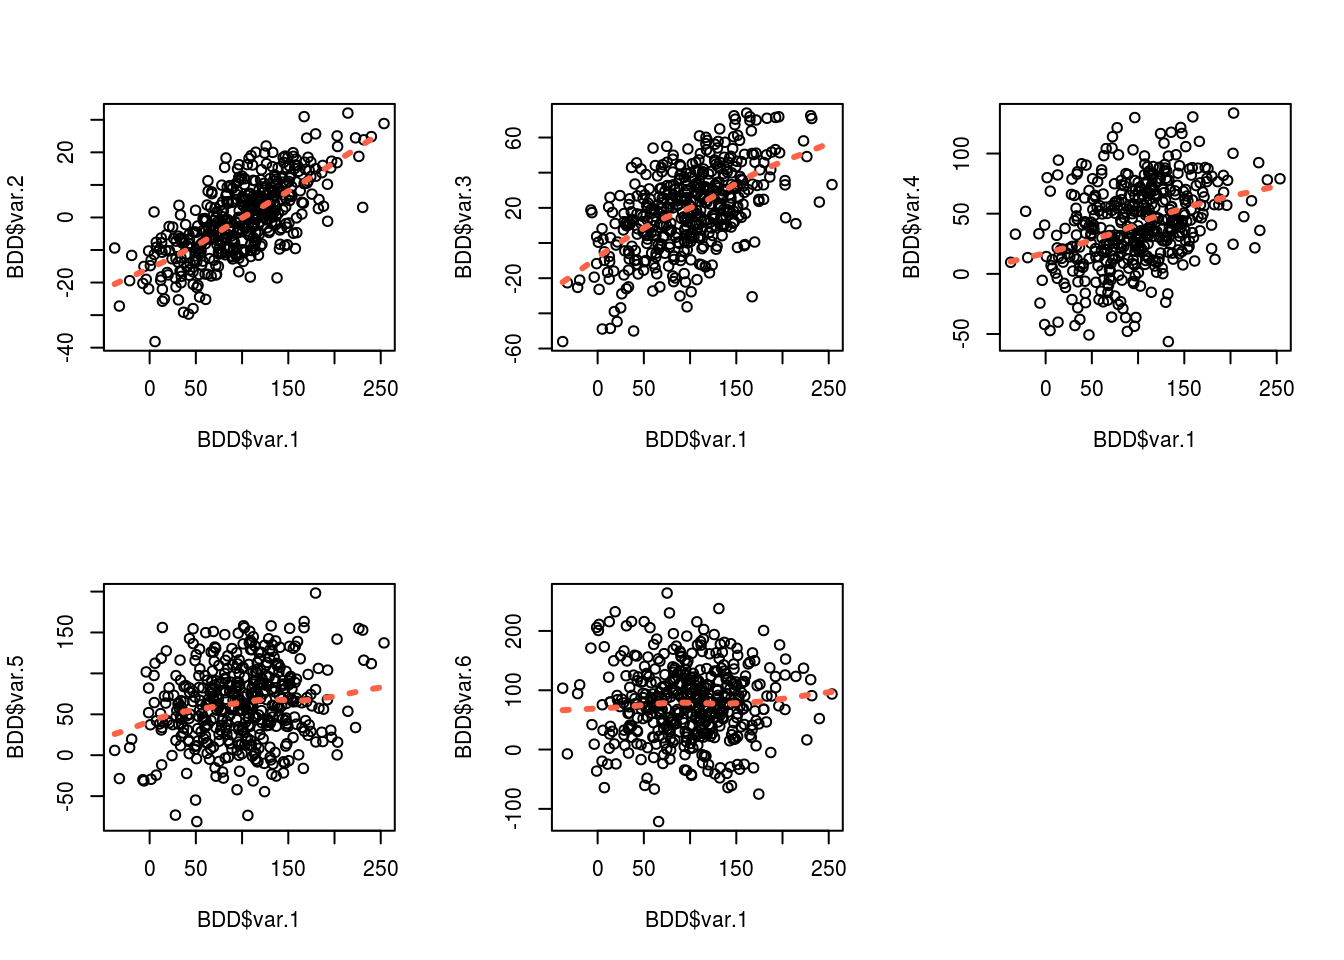
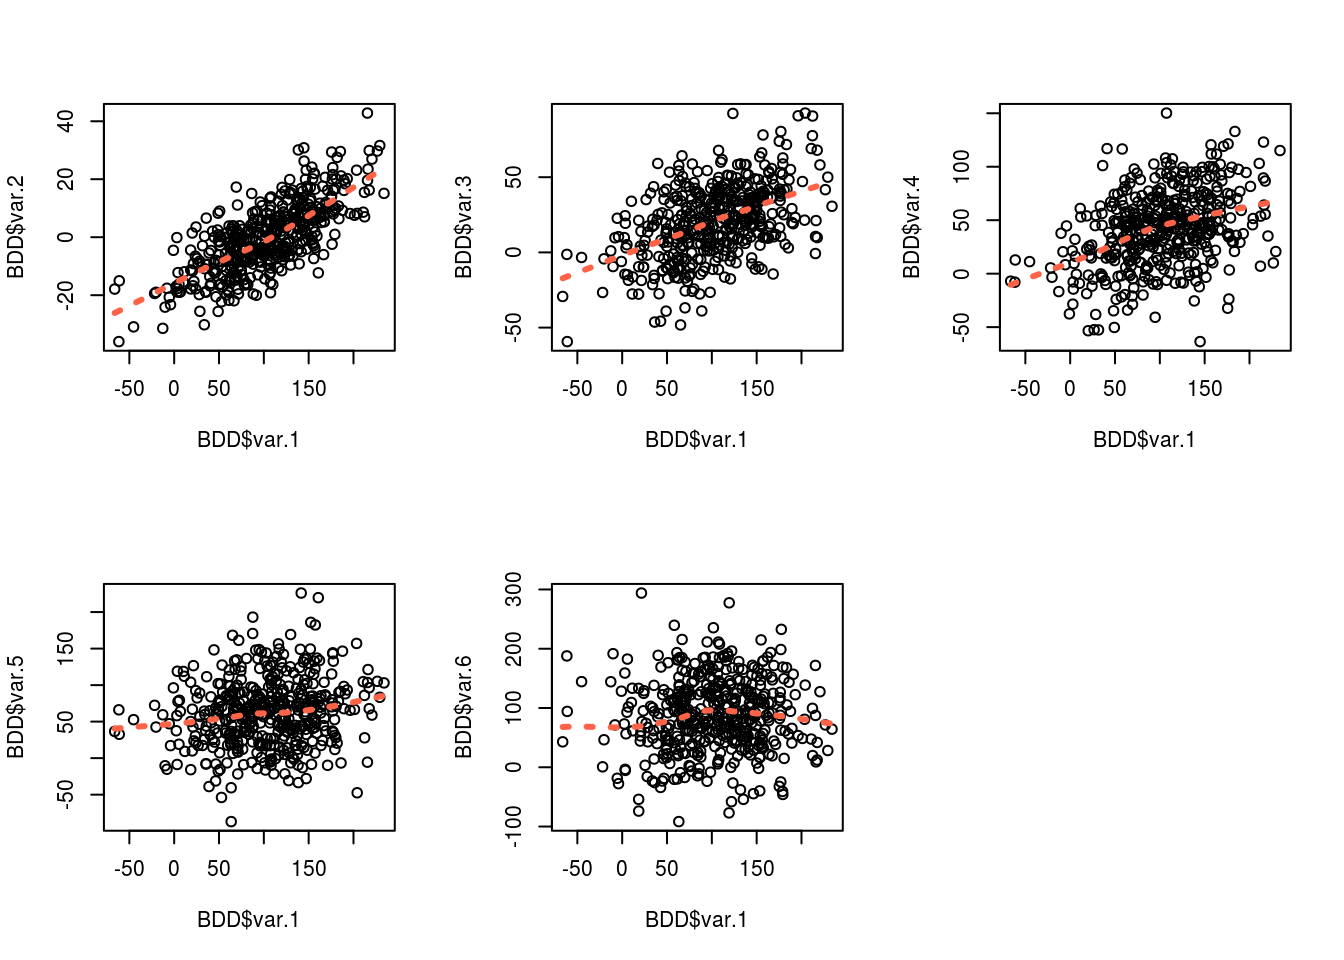
c

diff --git a/m_lineaire.html b/m_lineaire.html
@@ -408,12 +408,12 @@ var.1 &lt;- 48 + A*var.2 + B*var.3 + C*var.4 + D*var.5 + E*var.6 + rnorm(450, 0 
 BDD &lt;- data.frame(var.1,var.2, var.3, var.4, var.5, var.6)
 str(BDD)</code></pre>
 <pre><code>## &#39;data.frame&#39;:    450 obs. of  6 variables:
-##  $ var.1: num  147.46 133.2 239.85 5.85 134.93 ...
-##  $ var.2: num  -1.9 19.99 24.84 -38.14 8.19 ...
-##  $ var.3: num  30.95 14.54 23.28 2.12 14.27 ...
-##  $ var.4: num  116.71 30.63 78.09 6.93 69.77 ...
-##  $ var.5: num  35.9 46.8 111.9 112.4 77.6 ...
-##  $ var.6: num  45 80.3 52.2 32.5 164.2 ...</code></pre>
+##  $ var.1: num  143.5 54.1 122.1 125.4 35 ...
+##  $ var.2: num  15.92 -13.26 -3.26 -4.13 -18.81 ...
+##  $ var.3: num  18.8 18.4 37 24.7 43.7 ...
+##  $ var.4: num  45.52 48.85 60.69 66.85 -3.65 ...
+##  $ var.5: num  69.9 90.4 44 44.7 37.6 ...
+##  $ var.6: num  127.3 112.9 196.2 40.7 61.8 ...</code></pre>
 <p><strong>Visualisation des associations brutes</strong></p>
 <p>On peut visualiser dans un premiers temps la relation de notre variable d’interet avec les autres variables.<br />
 On constate comme attendu que les relations semblent lineaires, et proches des coefficients specifies plus haut.</p>
@@ -437,22 +437,22 @@ summary(M.Lineaire.1)</code></pre>
 ## 
 ## Residuals:
 ##     Min      1Q  Median      3Q     Max 
-## -50.763 -11.946  -0.578  10.566  58.363 
+## -50.837 -11.924   0.207  12.459  56.805 
 ## 
 ## Coefficients:
-##              Estimate Std. Error t value Pr(&gt;|t|)    
-## (Intercept) 45.794549   2.065455  22.172   &lt;2e-16 ***
-## var.2        2.839394   0.069044  41.124   &lt;2e-16 ***
-## var.3        0.998625   0.033441  29.862   &lt;2e-16 ***
-## var.4        0.518075   0.022850  22.673   &lt;2e-16 ***
-## var.5        0.217497   0.017072  12.740   &lt;2e-16 ***
-## var.6       -0.002469   0.012812  -0.193    0.847    
+##             Estimate Std. Error t value Pr(&gt;|t|)    
+## (Intercept) 46.97867    2.21822  21.179   &lt;2e-16 ***
+## var.2        3.09086    0.07024  44.005   &lt;2e-16 ***
+## var.3        0.94728    0.03464  27.349   &lt;2e-16 ***
+## var.4        0.55279    0.02388  23.153   &lt;2e-16 ***
+## var.5        0.18175    0.01823   9.969   &lt;2e-16 ***
+## var.6        0.02604    0.01362   1.912   0.0565 .  
 ## ---
 ## Signif. codes:  0 &#39;***&#39; 0.001 &#39;**&#39; 0.01 &#39;*&#39; 0.05 &#39;.&#39; 0.1 &#39; &#39; 1
 ## 
-## Residual standard error: 16.5 on 444 degrees of freedom
-## Multiple R-squared:  0.8893, Adjusted R-squared:  0.8881 
-## F-statistic: 713.7 on 5 and 444 DF,  p-value: &lt; 2.2e-16</code></pre>
+## Residual standard error: 17.82 on 444 degrees of freedom
+## Multiple R-squared:  0.8889, Adjusted R-squared:  0.8877 
+## F-statistic: 710.8 on 5 and 444 DF,  p-value: &lt; 2.2e-16</code></pre>
 </div>
 <div id="comparaison-de-models" class="section level1">
 <h1>Comparaison de models</h1>
@@ -468,8 +468,8 @@ anova(M.Lineaire.1, M.Lineaire.2)</code></pre>
 ## Model 1: var.1 ~ var.2 + var.3 + var.4 + var.5 + var.6
 ## Model 2: var.1 ~ var.3 + var.4 + var.5 + var.6
 ##   Res.Df    RSS Df Sum of Sq      F    Pr(&gt;F)    
-## 1    444 120938                                  
-## 2    445 581599 -1   -460660 1691.2 &lt; 2.2e-16 ***
+## 1    444 141000                                  
+## 2    445 755938 -1   -614939 1936.4 &lt; 2.2e-16 ***
 ## ---
 ## Signif. codes:  0 &#39;***&#39; 0.001 &#39;**&#39; 0.01 &#39;*&#39; 0.05 &#39;.&#39; 0.1 &#39; &#39; 1</code></pre>
 </div>
@@ -508,56 +508,56 @@ step(M.Lineaire.0, #le model initial a tester
      scope = list(lower=null,upper=full), #les models le plus pauvre/riche autorise
      criterion = &quot;BIC&quot;, #1er arugment sur le critere de selection
      k = log(nrow(BDD))) #2nd argument ; pour comparer en fonction de l&#39;AIC on retirera ces deux derniers arguments</code></pre>
-<pre><code>## Start:  AIC=3443.27
+<pre><code>## Start:  AIC=3514.91
 ## var.1 ~ var.4 + var.5 + var.6
 ## 
 ##         Df Sum of Sq     RSS    AIC
-## + var.2  1    533018  363836 3043.4
-## + var.3  1    315255  581599 3254.5
-## - var.6  1        43  896897 3437.2
-## &lt;none&gt;                896854 3443.3
-## - var.5  1     58299  955153 3465.5
-## - var.4  1    160368 1057222 3511.2
+## + var.2  1    673088  378534 3061.2
+## + var.3  1    295684  755938 3372.5
+## - var.6  1      3472 1055094 3510.3
+## &lt;none&gt;               1051622 3514.9
+## - var.5  1     29303 1080925 3521.2
+## - var.4  1    182905 1234527 3581.0
 ## 
-## Step:  AIC=3043.39
+## Step:  AIC=3061.21
 ## var.1 ~ var.4 + var.5 + var.6 + var.2
 ## 
-##         Df Sum of Sq    RSS    AIC
-## + var.3  1    242898 120938 2553.9
-## - var.6  1       274 364110 3037.6
-## &lt;none&gt;               363836 3043.4
-## - var.5  1     41526 405362 3085.9
-## - var.4  1    155289 519125 3197.2
-## - var.2  1    533018 896854 3443.3
+##         Df Sum of Sq     RSS    AIC
+## + var.3  1    237535  141000 2622.9
+## - var.6  1      1946  380480 3057.4
+## &lt;none&gt;                378534 3061.2
+## - var.5  1     31176  409710 3090.7
+## - var.4  1    171136  549671 3223.0
+## - var.2  1    673088 1051622 3514.9
 ## 
-## Step:  AIC=2553.86
+## Step:  AIC=2622.92
 ## var.1 ~ var.4 + var.5 + var.6 + var.2 + var.3
 ## 
 ##         Df Sum of Sq    RSS    AIC
-## - var.6  1        10 120948 2547.8
-## &lt;none&gt;               120938 2553.9
-## - var.5  1     44208 165147 2688.0
-## - var.4  1    140025 260964 2893.8
-## - var.3  1    242898 363836 3043.4
-## - var.2  1    460660 581599 3254.5
+## - var.6  1      1162 142161 2620.5
+## &lt;none&gt;               141000 2622.9
+## - var.5  1     31561 172561 2707.7
+## - var.4  1    170230 311230 2973.1
+## - var.3  1    237535 378534 3061.2
+## - var.2  1    614939 755938 3372.5
 ## 
-## Step:  AIC=2547.79
+## Step:  AIC=2620.51
 ## var.1 ~ var.4 + var.5 + var.2 + var.3
 ## 
 ##         Df Sum of Sq    RSS    AIC
-## &lt;none&gt;               120948 2547.8
-## + var.6  1        10 120938 2553.9
-## - var.5  1     44302 165250 2682.1
-## - var.4  1    140355 261303 2888.3
-## - var.3  1    243161 364110 3037.6
-## - var.2  1    460712 581660 3248.4</code></pre>
+## &lt;none&gt;               142161 2620.5
+## + var.6  1      1162 141000 2622.9
+## - var.5  1     31656 173817 2704.9
+## - var.4  1    169632 311793 2967.8
+## - var.3  1    238319 380480 3057.4
+## - var.2  1    615992 758153 3367.7</code></pre>
 <pre><code>## 
 ## Call:
 ## lm(formula = var.1 ~ var.4 + var.5 + var.2 + var.3, data = BDD)
 ## 
 ## Coefficients:
 ## (Intercept)        var.4        var.5        var.2        var.3  
-##     45.6016       0.5178       0.2176       2.8392       0.9988</code></pre>
+##     49.2799       0.5516       0.1820       3.0931       0.9486</code></pre>
 </div>
 <div id="verification-des-hypotheses" class="section level1">
 <h1>Verification des hypotheses</h1>

diff --git a/g_bdd.html b/g_bdd.html
@@ -288,14 +288,14 @@ str(D1)</code></pre>
 <pre><code>## &#39;data.frame&#39;:    40 obs. of  3 variables:
 ##  $ ID  : int  1 2 3 4 5 6 7 8 9 10 ...
 ##  $ TTT : Factor w/ 2 levels &quot;A&quot;,&quot;B&quot;: 1 2 1 2 1 2 1 2 1 2 ...
-##  $ VAL1: num  29.1 32.7 25.8 27 26.7 ...</code></pre>
+##  $ VAL1: num  26.1 20.4 22.5 30.3 24 ...</code></pre>
 <pre class="r"><code>id.3&lt;- 35:80
 val4&lt;- rnorm(46,25,3)
 D2&lt;- data.frame(ID= id.3, VAL3= val4) #46 observations de 2 variables: ID, VAL3
 str(D2)</code></pre>
 <pre><code>## &#39;data.frame&#39;:    46 obs. of  2 variables:
 ##  $ ID  : int  35 36 37 38 39 40 41 42 43 44 ...
-##  $ VAL3: num  32.5 25.3 26.7 28.7 19.4 ...</code></pre>
+##  $ VAL3: num  26.5 23.3 22.2 26.8 24.4 ...</code></pre>
 <p><strong>1. Rajout simple (fonctions de base)</strong></p>
 <p>On a une base de donnees a laquelle on souhaite rajouter une ou des colonnes/lignes issue d’une autre base de donnee.<br />
 La seule condition a respecter est que les tailles des deux elements soient compatibles.</p>
@@ -312,9 +312,9 @@ str(New_bdd)</code></pre>
 <pre><code>## &#39;data.frame&#39;:    40 obs. of  5 variables:
 ##  $ ID  : int  1 2 3 4 5 6 7 8 9 10 ...
 ##  $ TTT : Factor w/ 2 levels &quot;A&quot;,&quot;B&quot;: 1 2 1 2 1 2 1 2 1 2 ...
-##  $ VAL1: num  29.1 32.7 25.8 27 26.7 ...
-##  $ 1   : num  54.6 51.7 56.4 44.7 51.4 ...
-##  $ 2   : num  47.1 51.9 46.2 51.6 53.2 ...</code></pre>
+##  $ VAL1: num  26.1 20.4 22.5 30.3 24 ...
+##  $ 1   : num  50.5 47.7 54.3 49 52.1 ...
+##  $ 2   : num  45.4 49 52.7 53.5 50.2 ...</code></pre>
 <pre class="r"><code>#rajout d&#39;une ligne a la bdd pre-existante.
 
 New_bdd&lt;- rbind(D1, c(42, &quot;A&quot;, 100)) #rbind = row bind ~ lier lignes
@@ -322,7 +322,7 @@ str(New_bdd)</code></pre>
 <pre><code>## &#39;data.frame&#39;:    41 obs. of  3 variables:
 ##  $ ID  : chr  &quot;1&quot; &quot;2&quot; &quot;3&quot; &quot;4&quot; ...
 ##  $ TTT : Factor w/ 2 levels &quot;A&quot;,&quot;B&quot;: 1 2 1 2 1 2 1 2 1 2 ...
-##  $ VAL1: chr  &quot;29.1022006970404&quot; &quot;32.7209400303727&quot; &quot;25.8060340417685&quot; &quot;26.9785819718765&quot; ...</code></pre>
+##  $ VAL1: chr  &quot;26.149549924726&quot; &quot;20.4144329830216&quot; &quot;22.5048263879376&quot; &quot;30.3387027263788&quot; ...</code></pre>
 <pre class="r"><code>#
 
 New_bdd&lt;- cbind(D2, add_table) #impossible car objets de tailles differentes</code></pre>
@@ -347,7 +347,7 @@ New_bdd&lt;- dplyr::left_join(D1,D2) #on ajoute a D1 les variables de D2, pour l
 <pre><code>## &#39;data.frame&#39;:    40 obs. of  4 variables:
 ##  $ ID  : int  1 2 3 4 5 6 7 8 9 10 ...
 ##  $ TTT : Factor w/ 2 levels &quot;A&quot;,&quot;B&quot;: 1 2 1 2 1 2 1 2 1 2 ...
-##  $ VAL1: num  29.1 32.7 25.8 27 26.7 ...
+##  $ VAL1: num  26.1 20.4 22.5 30.3 24 ...
 ##  $ VAL3: num  NA NA NA NA NA NA NA NA NA NA ...</code></pre>
 <pre class="r"><code>New_bdd&lt;- dplyr::full_join(D1,D2) #on conserve l&#39;ensemble de l&#39;information des deux tableaux</code></pre>
 <pre><code>## Joining, by = &quot;ID&quot;</code></pre>
@@ -355,7 +355,7 @@ New_bdd&lt;- dplyr::left_join(D1,D2) #on ajoute a D1 les variables de D2, pour l
 <pre><code>## &#39;data.frame&#39;:    80 obs. of  4 variables:
 ##  $ ID  : int  1 2 3 4 5 6 7 8 9 10 ...
 ##  $ TTT : Factor w/ 2 levels &quot;A&quot;,&quot;B&quot;: 1 2 1 2 1 2 1 2 1 2 ...
-##  $ VAL1: num  29.1 32.7 25.8 27 26.7 ...
+##  $ VAL1: num  26.1 20.4 22.5 30.3 24 ...
 ##  $ VAL3: num  NA NA NA NA NA NA NA NA NA NA ...</code></pre>
 <pre class="r"><code>New_bdd&lt;- dplyr::inner_join(D1,D2) #on conserve l&#39;information des individus present a la fois dans D1 et D2</code></pre>
 <pre><code>## Joining, by = &quot;ID&quot;</code></pre>
@@ -363,8 +363,8 @@ New_bdd&lt;- dplyr::left_join(D1,D2) #on ajoute a D1 les variables de D2, pour l
 <pre><code>## &#39;data.frame&#39;:    6 obs. of  4 variables:
 ##  $ ID  : int  35 36 37 38 39 40
 ##  $ TTT : Factor w/ 2 levels &quot;A&quot;,&quot;B&quot;: 1 2 1 2 1 2
-##  $ VAL1: num  20.3 24.1 27.7 23.5 30.5 ...
-##  $ VAL3: num  32.5 25.3 26.7 28.7 19.4 ...</code></pre>
+##  $ VAL1: num  26.8 24.4 31 26 27 ...
+##  $ VAL3: num  26.5 23.3 22.2 26.8 24.4 ...</code></pre>
 <hr />
 <p>Pour s’entrainer</p>
 <p><strong>Synthese des fonctions</strong></p>

diff --git a/v_quanti.html b/v_quanti.html
@@ -397,7 +397,7 @@ D’autres fonctions permettent de les obtenir plus selectivement, un a un. Dans
 
 summary(ais_NA$ferr) #la derniere colonne denombre les donnees manquantes pour cette variable.</code></pre>
 <pre><code>##    Min. 1st Qu.  Median    Mean 3rd Qu.    Max.    NA&#39;s 
-##    8.00   41.75   66.50   77.31   97.50  234.00      10</code></pre>
+##    8.00   41.00   64.00   75.96   97.00  234.00      10</code></pre>
 <pre class="r"><code>table(is.na(ais_NA$ferr)) #is.na() = la valeur est elle manquante ? / permet d&#39;obtenir les effectifs</code></pre>
 <pre><code>## 
 ## FALSE  TRUE 
@@ -413,9 +413,9 @@ quantile(ais_NA$ferr,na.rm=TRUE)</code></pre>
 table(ais_NA$sport, useNA = &quot;always&quot;) #useNA: doit on inclure les donnees manquantes &quot;always&quot; !</code></pre>
 <pre><code>## 
 ##  B_Ball   Field     Gym Netball     Row    Swim  T_400m T_Sprnt  Tennis 
-##      24      19       3      21      33      22      28      15      10 
+##      24      17       4      23      34      22      28      15      10 
 ##  W_Polo    &lt;NA&gt; 
-##      17      10</code></pre>
+##      15      10</code></pre>
 <p><strong>- En bivarie</strong></p>
 <p>On peut egalement realiser une analyse bivariee, c-a-d decrire la distribution d’une variable selon differents groupes.</p>
 <pre class="r"><code>#Dans le cas d&#39;une variable quantitative.
@@ -425,27 +425,27 @@ tapply(ais_NA$ferr, #la variable que l&#39;on souhaite decrire
        summary) #utiliser cette fonction de description</code></pre>
 <pre><code>## $f
 ##    Min. 1st Qu.  Median    Mean 3rd Qu.    Max.    NA&#39;s 
-##   12.00   36.50   50.00   57.62   73.00  182.00       5 
+##   12.00   36.00   50.00   56.77   71.00  182.00       3 
 ## 
 ## $m
 ##    Min. 1st Qu.  Median    Mean 3rd Qu.    Max.    NA&#39;s 
-##     8.0    55.0    89.0    96.6   122.0   234.0       5</code></pre>
+##    8.00   53.00   87.00   95.55  120.00  234.00       7</code></pre>
 <pre class="r"><code>#Dans le cas d&#39;une variable qualitative
 
 table(ais_NA$sport, ais_NA$sex, useNA = &quot;always&quot;)</code></pre>
 <pre><code>##          
 ##            f  m &lt;NA&gt;
-##   B_Ball  13 11    0
-##   Field    7 12    0
-##   Gym      3  0    0
-##   Netball 21  0    0
-##   Row     18 15    0
+##   B_Ball  12 12    0
+##   Field    6 11    0
+##   Gym      4  0    0
+##   Netball 23  0    0
+##   Row     19 15    0
 ##   Swim     9 13    0
 ##   T_400m  11 17    0
 ##   T_Sprnt  4 11    0
 ##   Tennis   7  3    0
-##   W_Polo   0 17    0
-##   &lt;NA&gt;     7  3    0</code></pre>
+##   W_Polo   0 15    0
+##   &lt;NA&gt;     5  5    0</code></pre>
 </div>
 <div id="representation-graphiques" class="section level1">
 <h1>2. Representation graphiques</h1>

diff --git a/g_variables.html b/g_variables.html
@@ -377,15 +377,7 @@ div.tocify {
 <p>Ce jeux de donnees contient des informations sur une centaine de chats, cobayes pour une experimentation.<br />
 Plus de details <a href="https://vincentarelbundock.github.io/Rdatasets/doc/MASS/cats.html">ICI</a>.</p>
 <pre class="r"><code>require(MASS)</code></pre>
-<pre><code>## Loading required package: MASS</code></pre>
-<pre><code>## 
-## Attaching package: &#39;MASS&#39;</code></pre>
-<pre><code>## The following object is masked _by_ &#39;.GlobalEnv&#39;:
-## 
-##     cats</code></pre>
-<pre><code>## The following object is masked from &#39;package:DAAG&#39;:
-## 
-##     hills</code></pre>
+<pre class="r"><code>require(MASS)</code></pre>
 <pre class="r"><code>data(cats)</code></pre>
 </div>
 <div id="structure-de-la-base-de-donnees" class="section level1">
@@ -460,7 +452,7 @@ cats$rapport_2C &lt;- cut(cats$rapport, #le vecteur numerique a categoriser
 cats$random &lt;- runif(144, #doit correspondre au nombre d&#39;observation (de lignes) dans la BDD
                      min = 0, max= 10) #parametres de la distribution
 str(cats$random)</code></pre>
-<pre><code>##  num [1:144] 5.43 3.75 1.67 2.36 9.05 ...</code></pre>
+<pre><code>##  num [1:144] 1.323 3.551 8.408 3.198 0.464 ...</code></pre>
 </div>
 <div id="modifier-une-variable" class="section level1">
 <h1>4. Modifier une variable</h1>

diff --git a/basicbuilding.html b/basicbuilding.html
@@ -487,8 +487,10 @@ Surv() #la fonction est disponible, mais les arguments ne sont pas renseignes</c
 <p>Comme tout nouveau langage que l’on apprend, on debute generalement avec un vocabulaire (ici les fonctions) relativement pauvre. Certaines fonctions seront decrites ici mais l’ecrasante majoritee reste a decouvrir. Plus le vocabulaire s’enrichie plus on est capable de realiser des taches specifiques, precises ou combinees a d’autres.<br />
 Pour decouvrir de nouvelles fonctions le plus simple est de tapper ‘l’action que l’on souhaite produire’ suivi de ‘in r’ dans le moteur de recherche.</p>
 <p>Par exemple:</p>
+<blockquote>
 <p><em>Calculate cook’s distance in r</em></p>
-<p>Ou de consulter les (forums d’aide)[<a href="https://stats.stackexchange.com/" class="uri">https://stats.stackexchange.com/</a>].</p>
+</blockquote>
+<p>Ou en consultant les <a href="https://stats.stackexchange.com/">forums d’aide</a>.</p>
 <hr />
 <p><a href="entrainement_1.pdf">Pour s’entrainer</a></p>
 <p><strong>Synthese des fonctions</strong></p>

diff --git a/importer.html b/importer.html
@@ -463,7 +463,7 @@ Pour enregistrer definitivement celles-ci il faut sauvegarder la base de donnees
 <p>Le format d’export le plus courant est le format texte (.csv). Different packages permettent d’exporter sous d’autres formats.</p>
 <pre class="r"><code>write.csv(Nom_de_la_bdd_a_sauvegarder, &quot;Nom_de_la_bdd_sauvee.csv&quot;, row.names=F)</code></pre>
 <hr />
-<p><a href="">Pour s’entrainer</a>mettre un lien vers doc pdf avec exos de gestion de base de base de donnees et subset ++++.</p>
+<p><a href="entrainement_2.pdf">Pour s’entrainer</a></p>
 <p><strong>Synthese des fonctions</strong></p>
 <table>
 <thead>
